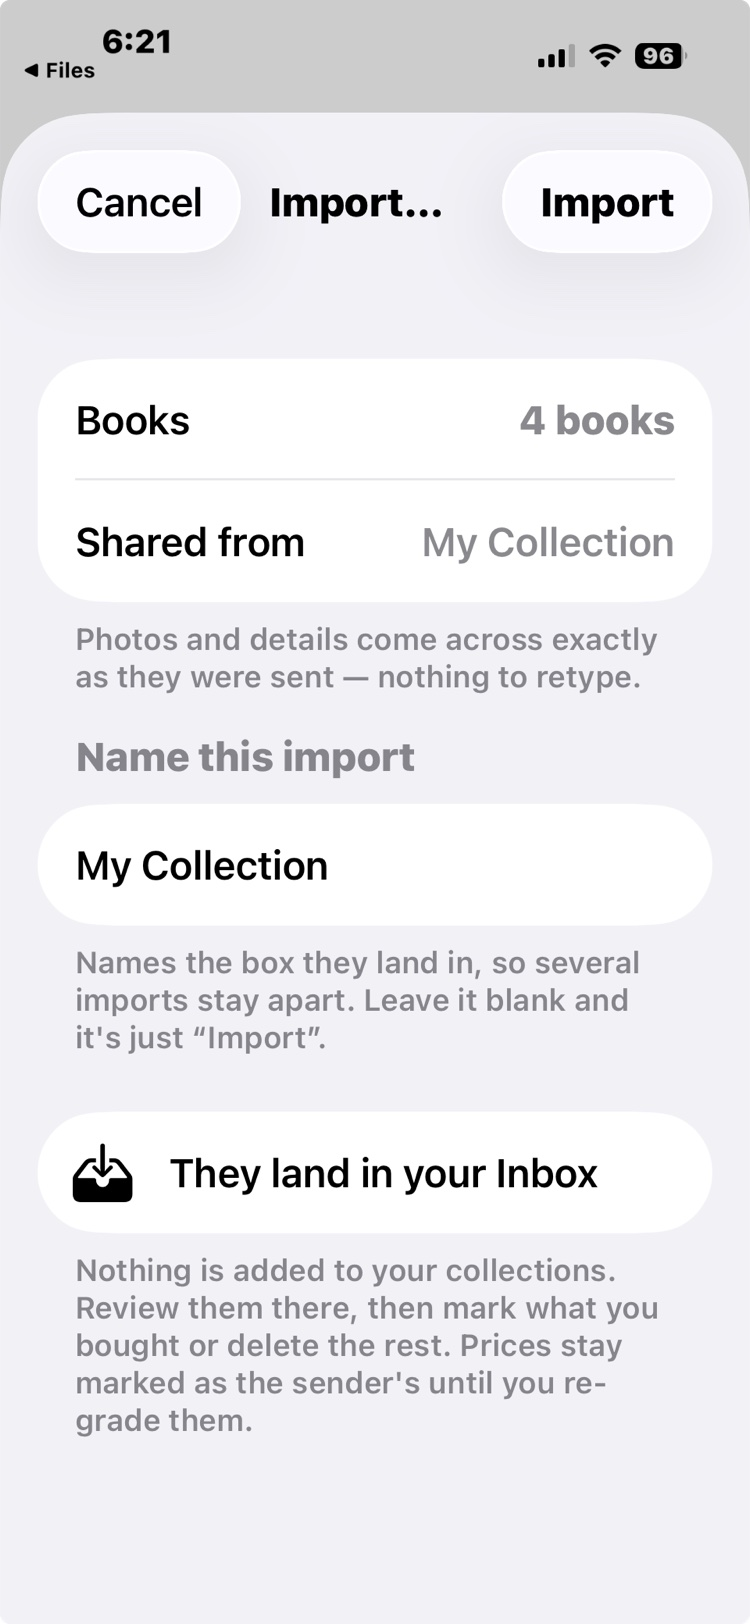
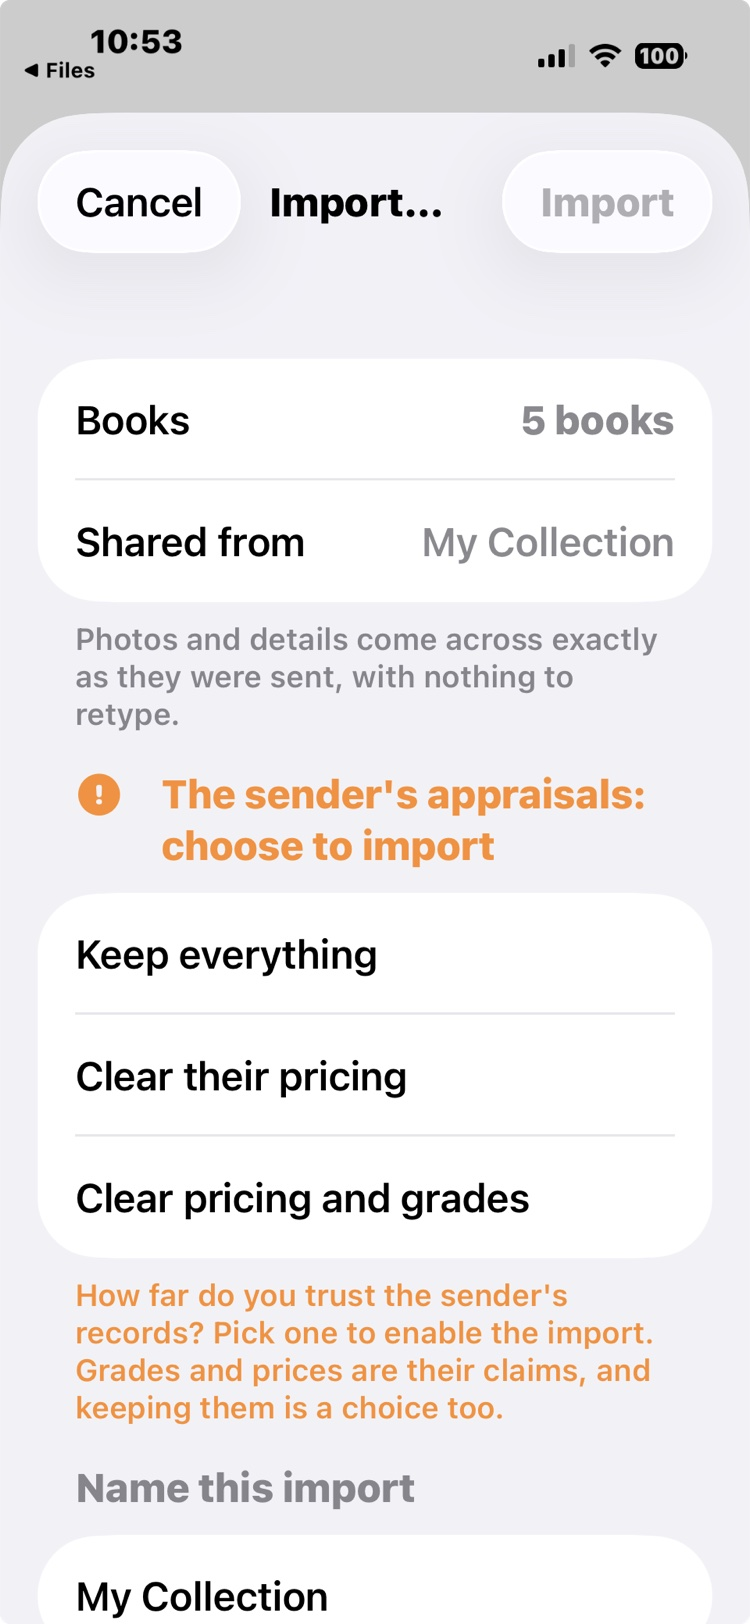
The sharing how-to shows the trust question and its three answers
The retaken import-sheet screenshot replaces the pre-ladder one, and
the receive section explains the rungs, the surviving asking price,
and why Import waits.

diff --git a/howto/sharing-backup-restore.html b/howto/sharing-backup-restore.html
@@ -209,6 +209,18 @@
     the same labels from then on, for their audits and their show table. No peeling,
     no relabeling, no re-photographing. The import even checks for label collisions,
     so two collectors' labeling systems can meet without stepping on each other.</p>
+    <p>On the receiving side, the import sheet asks one question before anything
+    lands, and it will not proceed until you answer it: how far do you trust the
+    sender's records? A share carries the sender's claims, including grades and
+    prices they may have set themselves, so keeping them is a choice, not a
+    default. Three answers, in rising distrust: <strong>Keep everything</strong>
+    (their data arrives as recorded, marked as theirs), <strong>Clear their
+    pricing</strong> (their AI prices go; their grades stay, and it costs nothing:
+    run your own Instant Ballpark whenever you like), or <strong>Clear pricing and
+    grades</strong> (everything appraisal-shaped goes, and every book with a photo
+    is re-scanned by your own AI, on your credits, with the cost shown before you
+    commit). Whichever you pick, their asking prices survive: that is their offer,
+    and what you negotiate against.</p>
     <div class="phone-strip">
       <figure>
         <img src="../images/airdrop-receive-1.jpg" width="750" height="1624" loading="lazy"
@@ -218,9 +230,9 @@
       </figure>
       <figure>
         <img src="../images/airdrop-receive-2.jpg" width="750" height="1624" loading="lazy"
-             alt="The Import sheet: 4 books shared from My Collection, a note that photos and details come across exactly as sent, a field naming the import's box, and the promise that books land in the Inbox with nothing added until reviewed." />
-        <figcaption>Name the import's box, land in the Inbox, add nothing until you
-          say so.</figcaption>
+             alt="The Import sheet: 5 books shared from My Collection, and an orange section reading The sender's appraisals, choose to import, with three options: Keep everything, Clear their pricing, Clear pricing and grades. The Import button is disabled until one is picked." />
+        <figcaption>The trust question, asked before anything lands: Import stays
+          off until you answer.</figcaption>
       </figure>
     </div>
 
